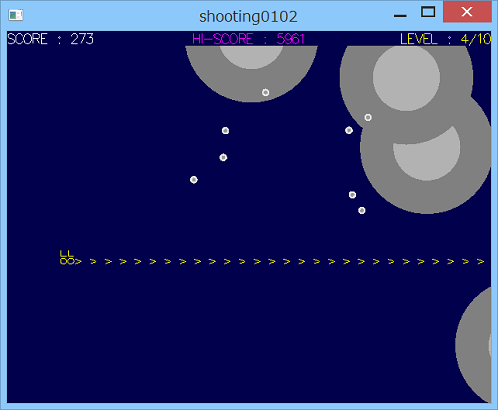
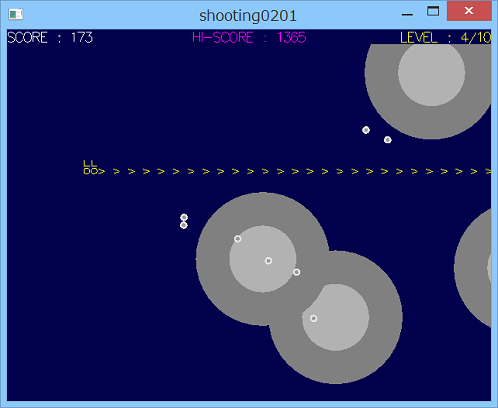
worm0201.scm chg v1.01

diff --git a/README.md b/README.md
@@ -68,7 +68,7 @@
    (ただし、敵の頭には乗ることができ、乗ると色が変わって無力化します)  
    ESCキーを押すと終了します。
 
-8. シューティングゲーム2 ( shooting0102.scm )  
+8. シューティングゲーム2 ( shooting0201.scm )  
    Gauche-gl を使用した、簡単なシューティングゲームです。  
    矢印キーで上下左右移動。  
    [Ctrl]/[Space]/[a]/[z]キーのいずれかでビーム発射です(押し続けると発射し続けます)。  
@@ -116,13 +116,13 @@
     [r]キーを押すとゲームをリセットします。  
     ESCキーを押すと終了します。
 
-13. ワームシミュレータ ( worm0101.scm, worm0102.scm )  
+13. ワームシミュレータ ( worm0101.scm, worm0201.scm )  
     Gauche-gl を使用した、ワームシミュレータです。  
     矢印キーかマウスボタン1でカーソルを移動します。  
     空腹状態のワームはカーソルを追跡します。  
     ESCキーを押すと終了します。  
     worm0101.scm は末尾から移動するタイプで、  
-    worm0102.scm は先端から移動するタイプです。
+    worm0201.scm は先端から移動するタイプです。
 
 
 ## その他 注意事項等
